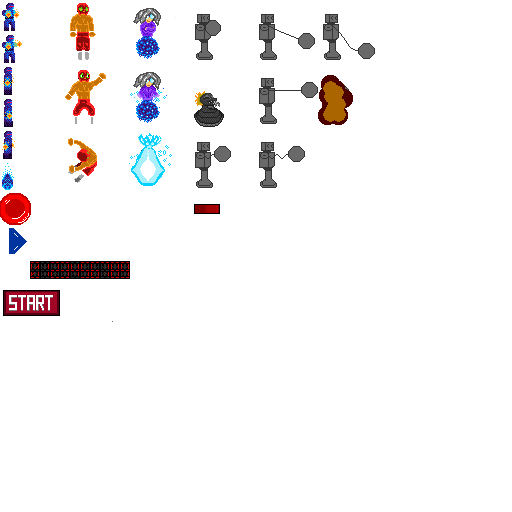
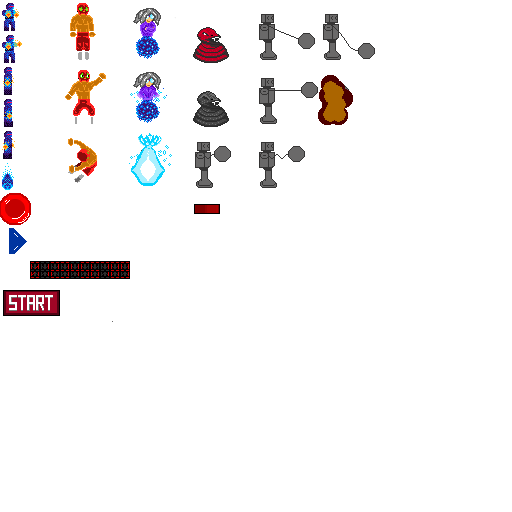
Se cambio el sprite del robot y tambien se trato de modificar staticDecoration para que tenga un efecto de desvanecer.

Changed region(s): [[0.375, 0.0312, 0.4688, 0.125], [0.375, 0.1562, 0.4688, 0.25]]

diff --git a/app/src/main/java/com/jgame/util/Decoration.java b/app/src/main/java/com/jgame/util/Decoration.java
@@ -8,22 +8,28 @@ public abstract class Decoration {
         public final TextureDrawer.TextureData sprite;
         public int preDrawFrames;
         public int drawFrames;
+        private final int initialDrawFrames;
+        private final boolean fade;
 
-        public StaticDecoration(TextureDrawer.TextureData sprite, Square size, SimpleDrawer.ColorData color, boolean inverted, int preDrawFrames, int drawFrames){
+        public StaticDecoration(TextureDrawer.TextureData sprite, Square size, SimpleDrawer.ColorData color, boolean inverted, int preDrawFrames, int drawFrames, boolean fade){
             this.sprite = sprite;
             this.size = size;
             this.color = color;
             this.inverted = inverted;
             this.preDrawFrames = preDrawFrames;
             this.drawFrames = drawFrames;
+            initialDrawFrames = drawFrames;
+            this.fade = fade;
         }
 
-        public StaticDecoration(TextureDrawer.TextureData sprite, Square size, boolean inverted, int preDrawFrames, int drawFrames){
+        public StaticDecoration(TextureDrawer.TextureData sprite, Square size, boolean inverted, int preDrawFrames, int drawFrames, boolean fade){
             this.sprite = sprite;
             this.size = size;
             this.inverted = inverted;
             this.preDrawFrames = preDrawFrames;
             this.drawFrames = drawFrames;
+            initialDrawFrames = drawFrames;
+            this.fade = fade;
         }
 
         @Override
@@ -40,8 +46,12 @@ public abstract class Decoration {
         public void update() {
             if(preDrawFrames > 0)
                 preDrawFrames--;
-            else
+            else {
                 drawFrames--;
+                if(fade)
+                    color.a = color.a * ((float) drawFrames) / initialDrawFrames;
+                }
+
         }
 
         @Override

diff --git a/app/src/main/java/com/jgame/elements/RobotEnemy.java b/app/src/main/java/com/jgame/elements/RobotEnemy.java
@@ -135,12 +135,16 @@ public class RobotEnemy extends GameCharacter {
                 currentState = EnemyState.EXPLODING;
                 activeAttack = explosionAttack;
                 decorationData.add(new StaticDecoration(EXPLOSION, new Square(new Vector2(position), 200, 90, 0),
-                        baseX.x == -1, 0, 15));
+                        baseX.x == -1, 0, 15, true));
                 decorationData.add(new StaticDecoration(EXPLOSION, new Square(new Vector2(position), 300, 75, 0),
-                        baseX.x == -1, 13, 10));
+                        baseX.x == -1, 13, 10, true));
             }
 
             if (position.x > foe.position.x && (position.x - foe.position.x) < attackRange) {
+                decorationData.add(new StaticDecoration(IDLE_TEXTURE,
+                        new Square(new Vector2(0,0), spriteContainer.lenX, spriteContainer.lenY, 0),
+                        new SimpleDrawer.ColorData(1,1,1,0.75f),
+                        baseX.x == -1, 0, 100, true));
                 currentState = EnemyState.ATTACKING;
                 activeAttack = regularAttack;
                 for(CollisionObject co : activeAttack.active)
@@ -154,7 +158,7 @@ public class RobotEnemy extends GameCharacter {
                 decorationData.add(new StaticDecoration(IDLE_TEXTURE,
                         new Square(new Vector2(position), spriteContainer.lenX, spriteContainer.lenY, 0),
                         new SimpleDrawer.ColorData(1,0,0,0.25f),
-                        baseX.x == -1, 0, 10));
+                        baseX.x == -1, 0, 10, false));
                 beepInterval = 0;
             }
 
